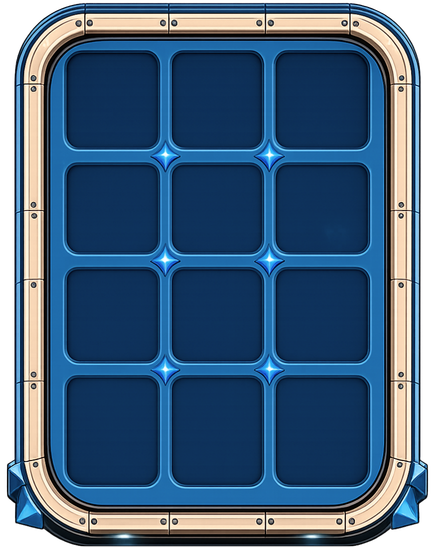
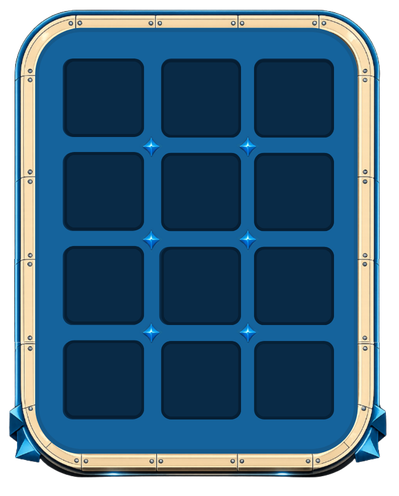
merge segment fix

diff --git a/core/src/main/java/com/splicelab/ui/screens/LabGameView.java b/core/src/main/java/com/splicelab/ui/screens/LabGameView.java
@@ -46,6 +46,7 @@ public final class LabGameView {
     private static final float BELT_TRACK_CORNER_RADIUS_RATIO = 0.17f;
     // Positive value shifts the whole belt-line segment upward.
     private static final float BELT_TRACK_VERTICAL_OFFSET_RATIO = 0.01f;
+    private static final float BELT_SCALE = 0.8f;
 
     // Marker is a fixed warning pointer on the left side.
     private static final int ATTACK_MARKER_PATH_INDEX = 10;
@@ -100,11 +101,14 @@ public final class LabGameView {
 
     private final Table background;
 
-    private static final float FUSION_FRAME_NATIVE_W = 339f;
-    private static final float FUSION_FRAME_NATIVE_H = 344f;
-    private static final float FUSION_FRAME_SCALE = 1.18f;
+    private static final float FUSION_FRAME_NATIVE_W = 399f;
+    private static final float FUSION_FRAME_NATIVE_H = 496;
+    private static final float FUSION_FRAME_SCALE = 1f;
     private static final float FUSION_FRAME_W = FUSION_FRAME_NATIVE_W * FUSION_FRAME_SCALE;
     private static final float FUSION_FRAME_H = FUSION_FRAME_NATIVE_H * FUSION_FRAME_SCALE;
+    private static final float MERGE_CELL_SIZE = 85f;
+    private static final float MERGE_CELL_PAD_X = 4.6f;
+    private static final float MERGE_CELL_PAD_Y = 4.8f;
 
     private final Table gridPanel;
 
@@ -155,7 +159,7 @@ public final class LabGameView {
         enemyVisual = new Table();
         enemyIcon = new Image();
         enemyIcon.setScaling(com.badlogic.gdx.utils.Scaling.fit);
-        enemyVisual.setSize(140, 90);
+        enemyVisual.setSize(128, 82);
 
         shaftBg = new Table();
         shaftBg.setTouchable(com.badlogic.gdx.scenes.scene2d.Touchable.disabled);
@@ -164,14 +168,14 @@ public final class LabGameView {
         shaftBg.getColor().a = 1f;
         root.addActor(shaftBg);
 
-        enemyIcon.setSize(225, 168);
-        enemyIcon.setPosition(-21f, 55f);
+        enemyIcon.setSize(190, 142);
+        enemyIcon.setPosition(-12f, 40f);
         enemyVisual.addActor(enemyIcon);
 
         // Keep enemy HP bar above the enemy image.
         enemyHpBar.setPosition(0f, enemyVisual.getHeight() - enemyHpBar.getHeight() + 6f);
         enemyVisual.addActor(enemyHpBar);
-        enemyPanel.add(enemyVisual).size(160, 140).pad(6).padTop(30).padBottom(70);
+        enemyPanel.add(enemyVisual).size(140, 118).pad(4).padTop(12).padBottom(34);
 
         conveyor.add(enemyPanel).pad(6);
 
@@ -184,9 +188,6 @@ public final class LabGameView {
         // Lower section: fusion station background behind the grid.
         // Scale the frame up uniformly to better align with top section composition.
         gridPanel = new Table();
-        gridPanel.setTransform(true);
-        // Grid is placed later by Table layout; don't pin it here.
-        gridPanel.setPosition(0f, 0f);
         var gridBg = PlaceholderSkinFactory.getDrawableIfPresent(skin, "fusion_station_bg");
         if (gridBg != null) {
             gridPanel.setBackground(gridBg);
@@ -198,7 +199,7 @@ public final class LabGameView {
             for (int c = 0; c < AppConstants.GRID_COLS; c++) {
                 GridCellWidget cell = new GridCellWidget(skin, ui, c, r);
                 cells[c][r] = cell;
-                grid.add(cell).size(82, 82).pad(7).padBottom(-2);
+                grid.add(cell).size(MERGE_CELL_SIZE, MERGE_CELL_SIZE).pad(MERGE_CELL_PAD_Y, MERGE_CELL_PAD_X, MERGE_CELL_PAD_Y, MERGE_CELL_PAD_X);
             }
             grid.row();
         }
@@ -213,14 +214,14 @@ public final class LabGameView {
             }
         });
 
-        // Center the grid inside the fixed frame (slightly down+left for visual balance).
-        gridPanel.add(grid).padLeft(22).padRight(36).padTop(4);
+        // Keep all 12 cells centered in the 12 dark pockets.
+        gridPanel.add(grid).padTop(-20);
 
         root.add(top).growX().height(60).row();
-        root.add(conveyor).growX().expandY().height(300).pad(UiConstants.PAD + 2).padBottom(-18).row();
+        root.add(conveyor).growX().expandY().height(238).pad(UiConstants.PAD + 2).padBottom(10).row();
         // Don't stretch the fusion station frame; center it at native size.
         // Push grid up closer to conveyor.
-        root.add(gridPanel).pad(UiConstants.PAD + 2).padTop(-20).center().size(FUSION_FRAME_W, FUSION_FRAME_H);
+        root.add(gridPanel).pad(UiConstants.PAD + 2).padTop(10).center().size(FUSION_FRAME_W, FUSION_FRAME_H);
 
         // Conveyor belt layer: path anchors + moving sockets.
         beltLayer = new Table();
@@ -298,8 +299,8 @@ public final class LabGameView {
         layoutShaftBackground();
         float margin = 52f;
         // Make the conveyor segment a bit larger.
-        float combatTopY = root.getHeight() - 89f;
-        float combatBottomY = root.getHeight() - 439f;
+        float combatTopY = root.getHeight() - 70f;
+        float combatBottomY = root.getHeight() - 448f;
         float leftX = margin;
         float rightX = root.getWidth() - margin;
 
@@ -312,7 +313,7 @@ public final class LabGameView {
         float rawLoopHeight = (topY - bottomY) + loopPad * 2f;
         float rawLoopX = leftX - loopPad;
         float rawLoopY = bottomY - loopPad;
-        float loopSize = Math.min(rawLoopWidth, rawLoopHeight);
+        float loopSize = Math.min(rawLoopWidth, rawLoopHeight) * BELT_SCALE;
         float loopX = rawLoopX + (rawLoopWidth - loopSize) * 0.5f;
         float loopY = rawLoopY + (rawLoopHeight - loopSize) * 0.5f;
         beltLoop.setSize(loopSize, loopSize);
@@ -342,8 +343,8 @@ public final class LabGameView {
     private void layoutConveyorPathForPhase(float beltPhase) {
         layoutShaftBackground();
         float margin = 70f;
-        float combatTopY = root.getHeight() - 150f;
-        float combatBottomY = root.getHeight() - 430f;
+        float combatTopY = root.getHeight() - 70f;
+        float combatBottomY = root.getHeight() - 448f;
         float leftX = margin;
         float rightX = root.getWidth() - margin;
 
@@ -355,7 +356,7 @@ public final class LabGameView {
         float rawLoopHeight = (topY - bottomY) + loopPad * 2f;
         float rawLoopX = leftX - loopPad;
         float rawLoopY = bottomY - loopPad;
-        float loopSize = Math.min(rawLoopWidth, rawLoopHeight);
+        float loopSize = Math.min(rawLoopWidth, rawLoopHeight) * BELT_SCALE;
         float loopX = rawLoopX + (rawLoopWidth - loopSize) * 0.5f;
         float loopY = rawLoopY + (rawLoopHeight - loopSize) * 0.5f;
 
@@ -397,8 +398,8 @@ public final class LabGameView {
         // Marker stays fixed on the right side of the belt (no phase sync).
         layoutShaftBackground();
         float margin = 70f;
-        float combatTopY = root.getHeight() - 150f;
-        float combatBottomY = root.getHeight() - 430f;
+        float combatTopY = root.getHeight() - 70f;
+        float combatBottomY = root.getHeight() - 448f;
         float leftX = margin;
         float rightX = root.getWidth() - margin;
 
@@ -410,7 +411,7 @@ public final class LabGameView {
         float rawLoopHeight = (topY - bottomY) + loopPad * 2f;
         float rawLoopX = leftX - loopPad;
         float rawLoopY = bottomY - loopPad;
-        float loopSize = Math.min(rawLoopWidth, rawLoopHeight);
+        float loopSize = Math.min(rawLoopWidth, rawLoopHeight) * BELT_SCALE;
         float loopX = rawLoopX + (rawLoopWidth - loopSize) * 0.5f;
         float loopY = rawLoopY + (rawLoopHeight - loopSize) * 0.5f;
 
@@ -472,8 +473,8 @@ public final class LabGameView {
     private void layoutShaftBackground() {
         if (shaftBg == null) return;
         float margin = 70f;
-        float combatTopY = root.getHeight() - 150f;
-        float combatBottomY = root.getHeight() - 430f;
+        float combatTopY = root.getHeight() - 70f;
+        float combatBottomY = root.getHeight() - 448f;
         float leftX = margin;
         float rightX = root.getWidth() - margin;
 
@@ -482,7 +483,7 @@ public final class LabGameView {
         float rawLoopHeight = (combatTopY - combatBottomY) + loopPad * 2f;
         float rawLoopX = leftX - loopPad;
         float rawLoopY = combatBottomY - loopPad;
-        float loopSize = Math.min(rawLoopWidth, rawLoopHeight);
+        float loopSize = Math.min(rawLoopWidth, rawLoopHeight) * BELT_SCALE;
         float loopX = rawLoopX + (rawLoopWidth - loopSize) * 0.5f;
         float loopY = rawLoopY + (rawLoopHeight - loopSize) * 0.5f;
 
